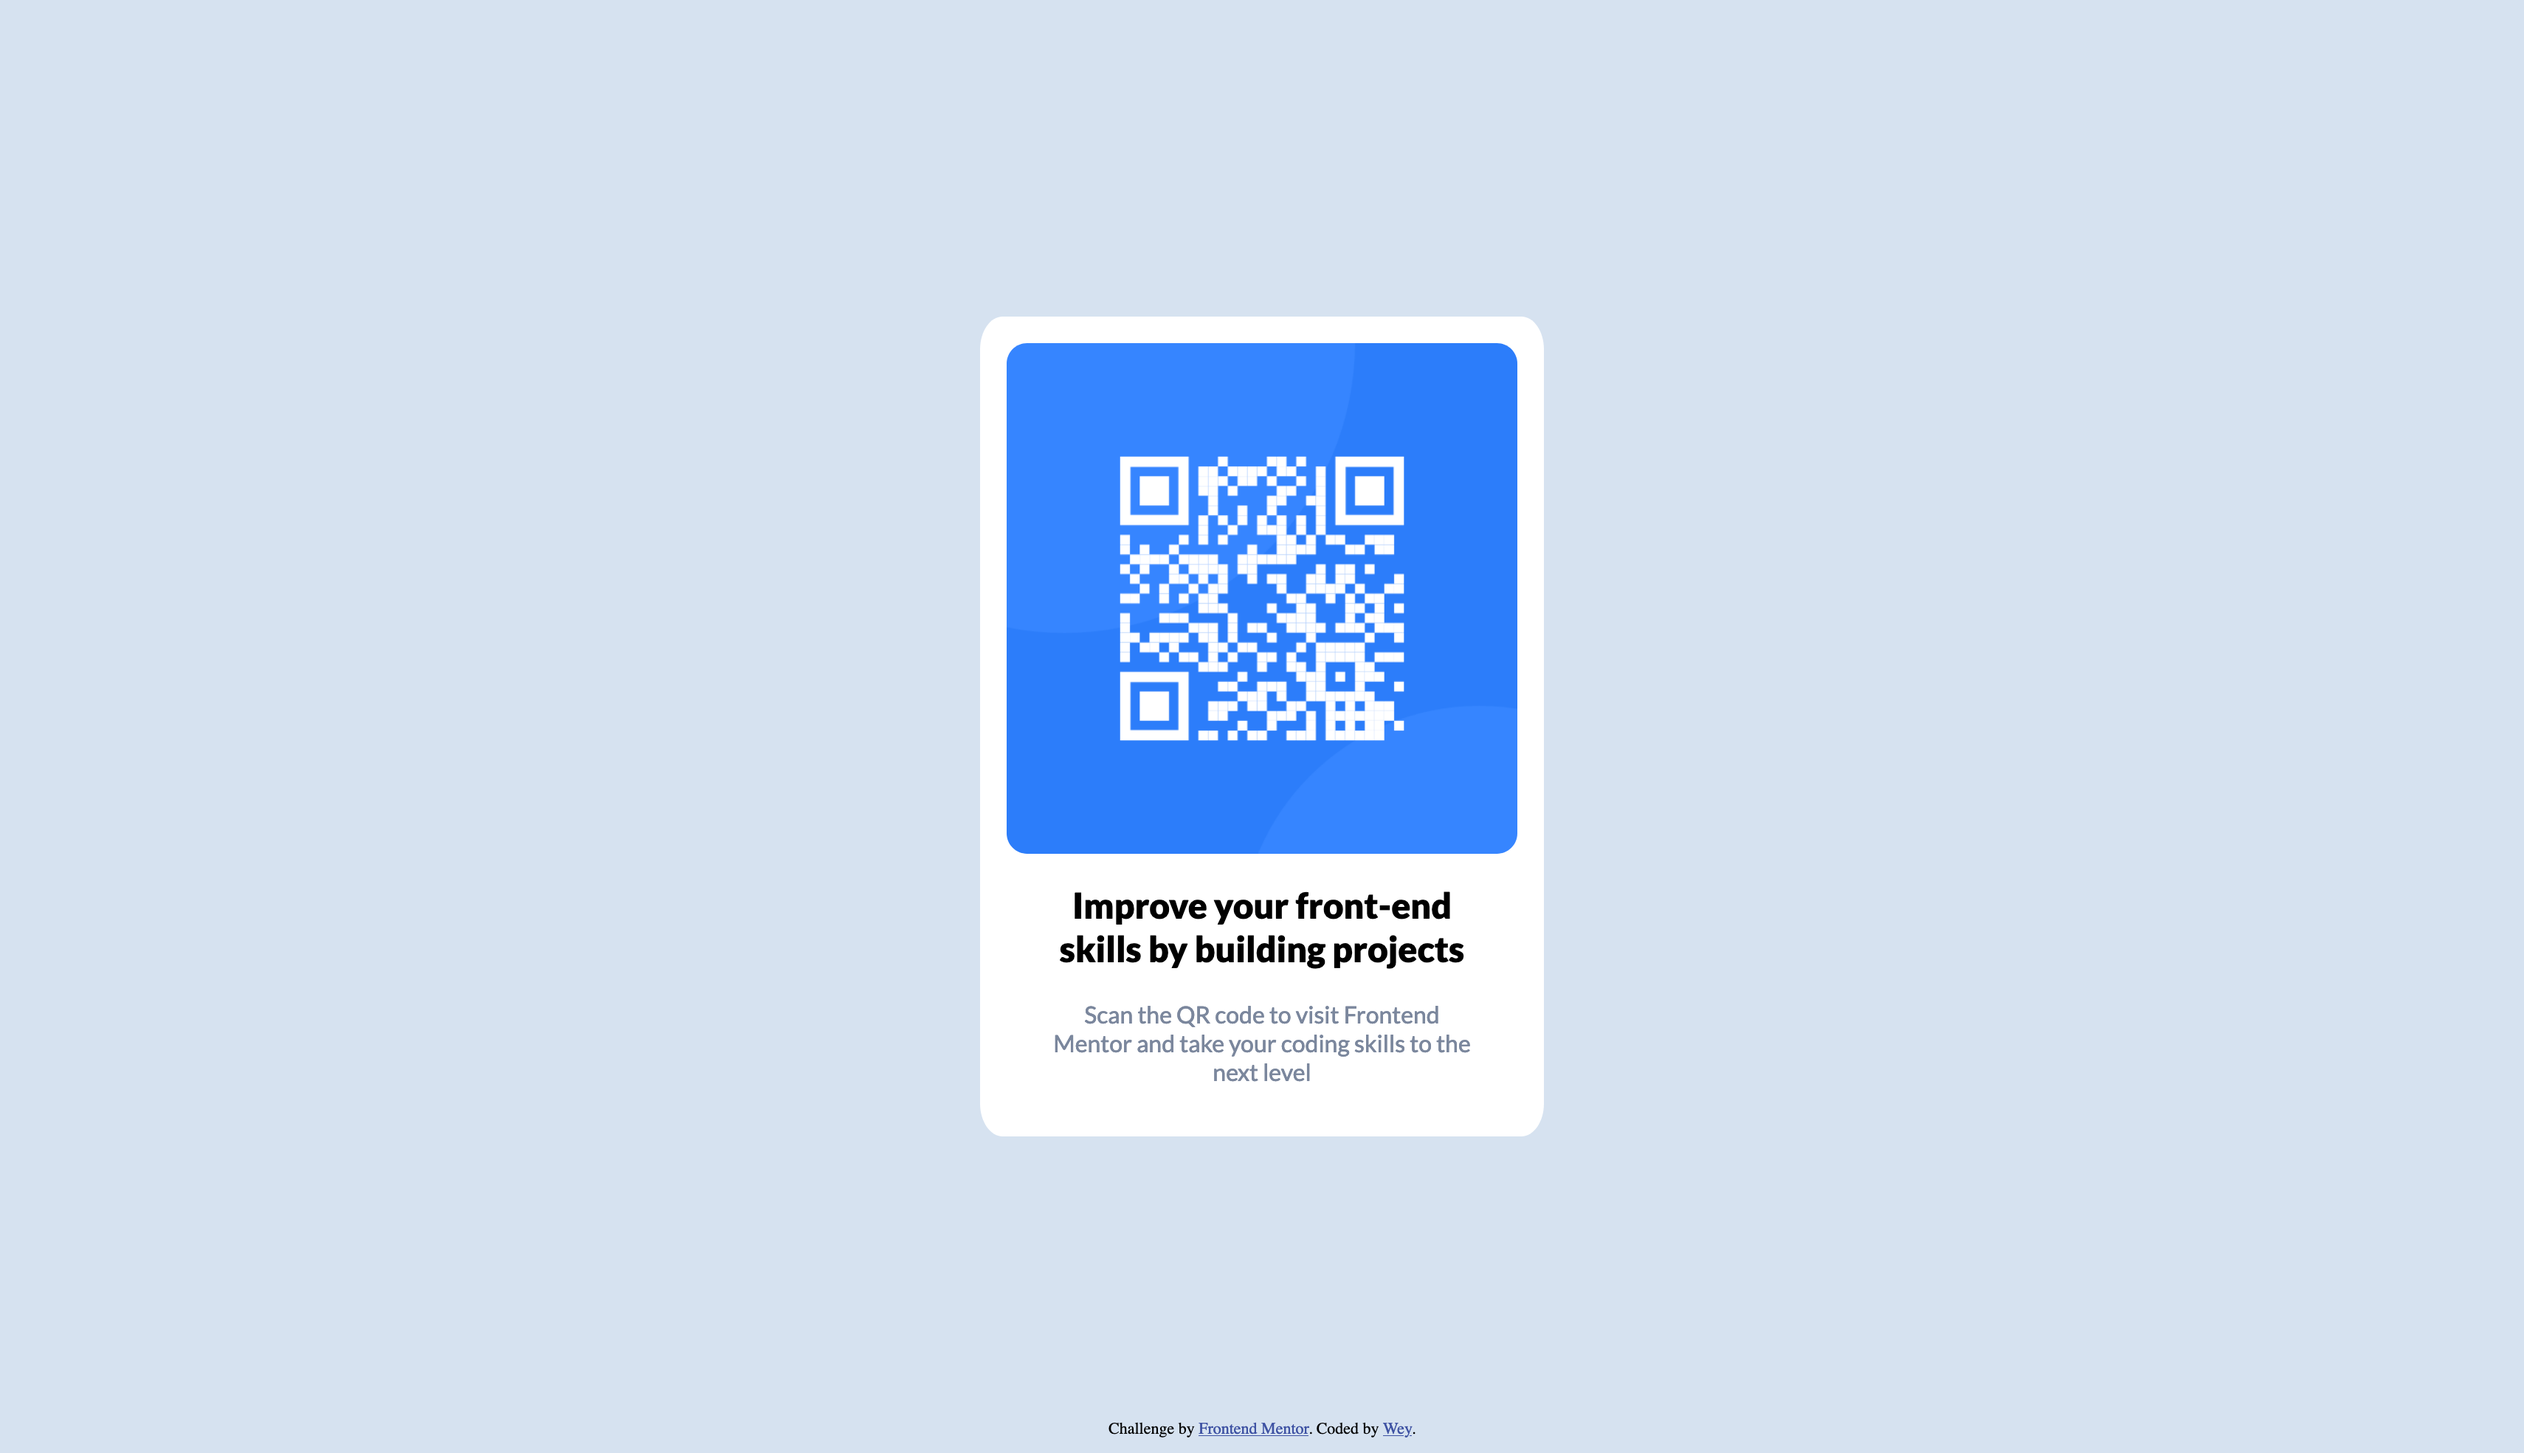
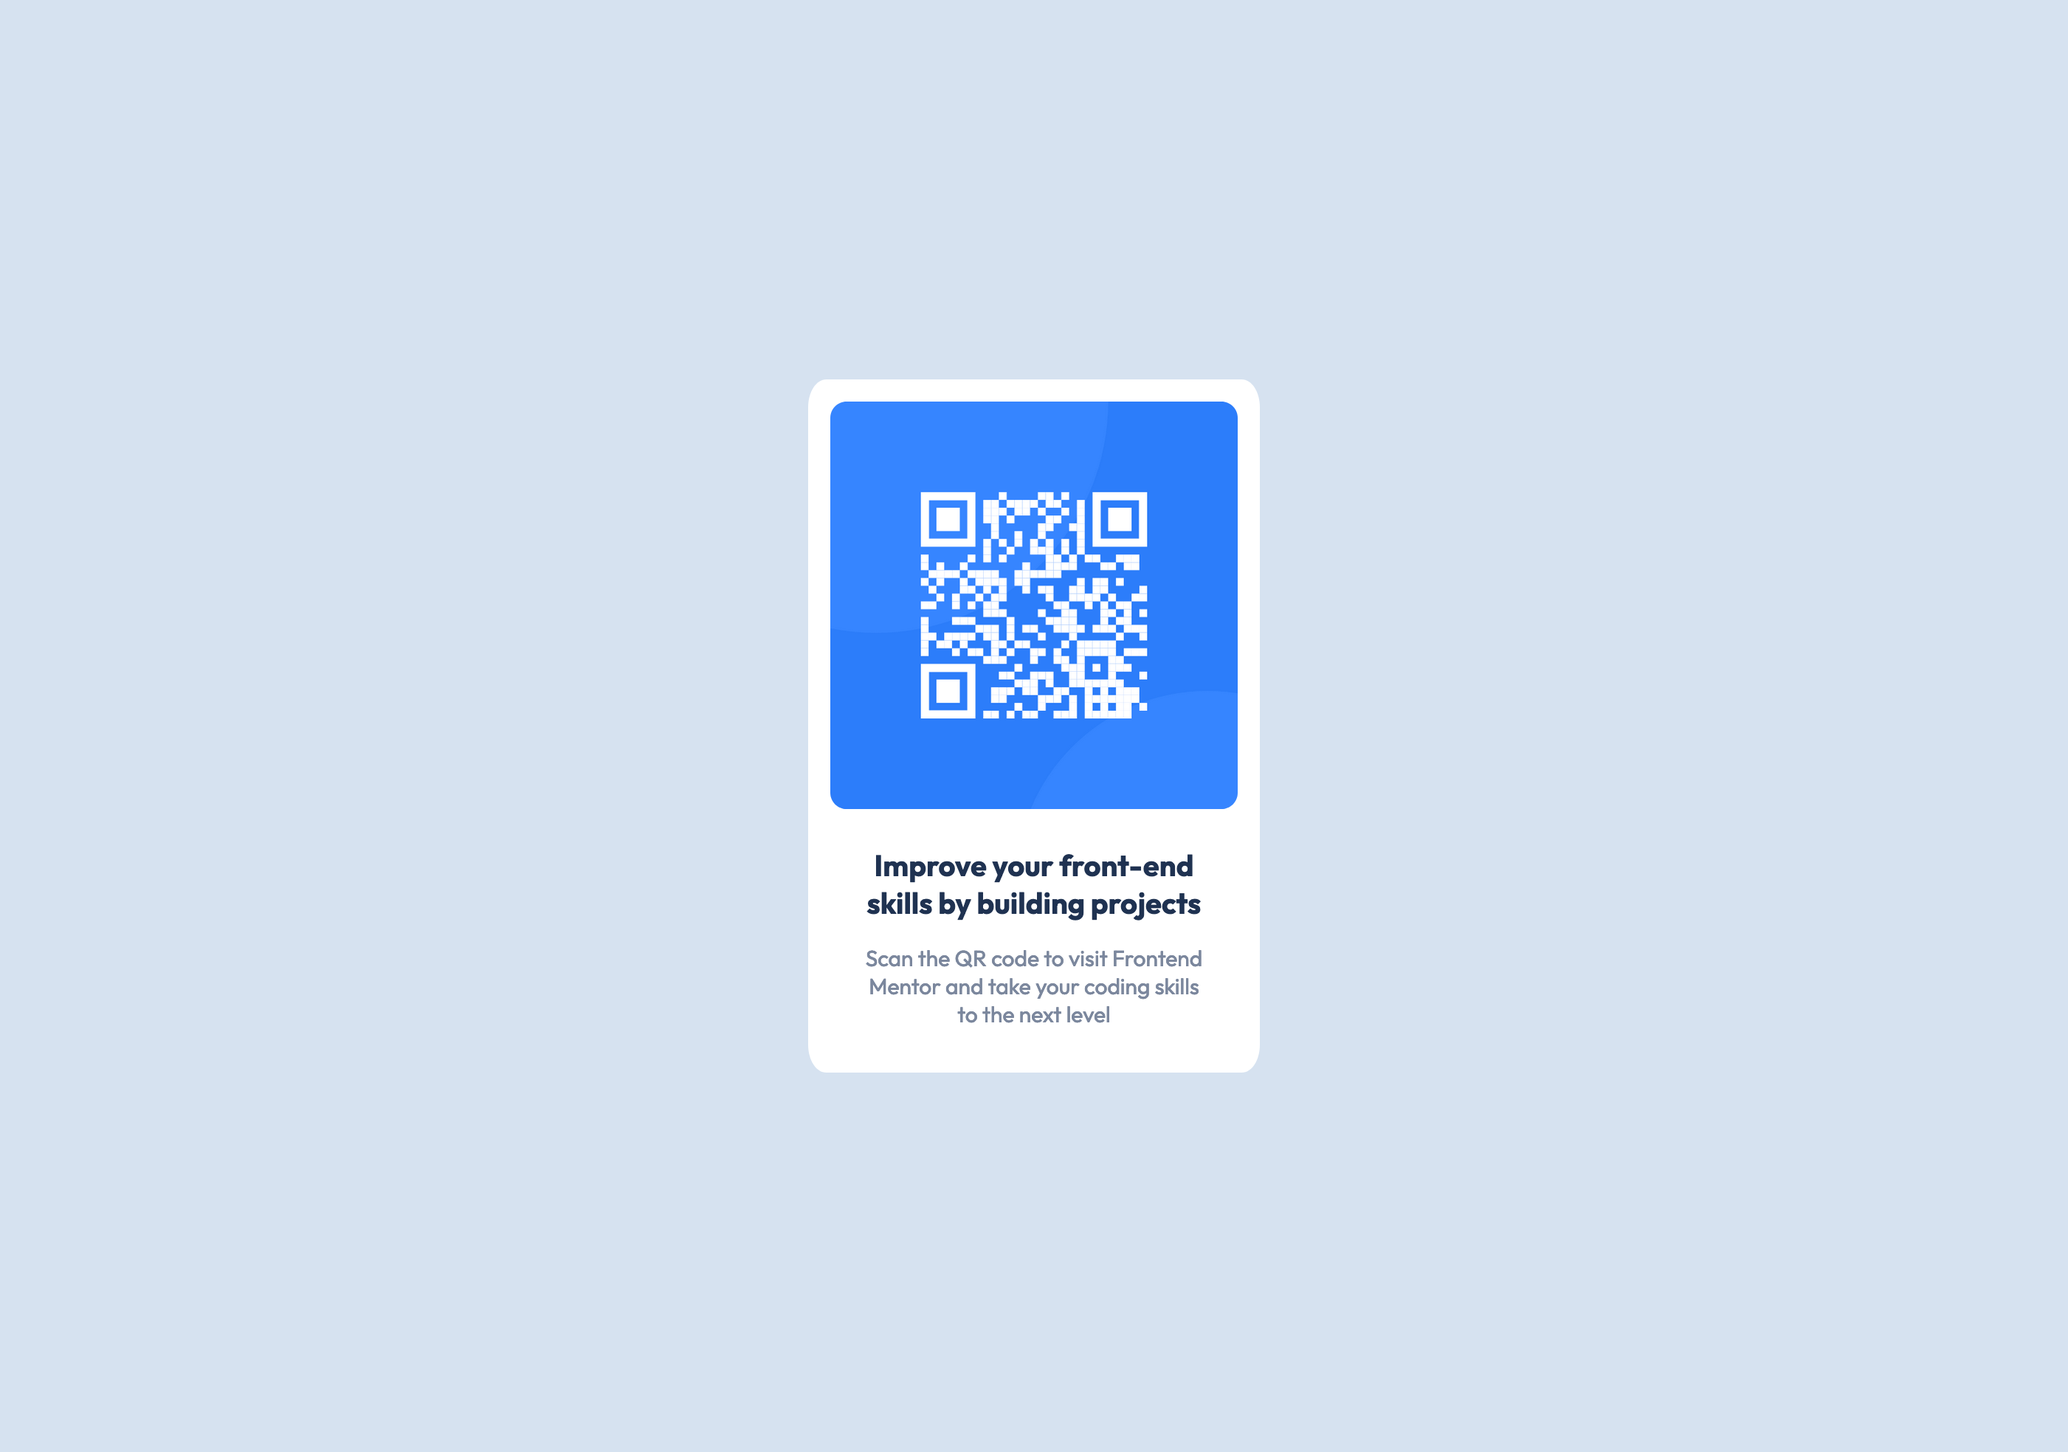
fixed to match style-guide better

Changed region(s): [[0.3726, 0.2171, 0.621, 0.8063], [0.4347, 0.3101, 0.5589, 0.5272], [0.4347, 0.9614, 0.5589, 0.9924]]

diff --git a/style.css b/style.css
@@ -16,6 +16,12 @@ img {
     border-radius: 4%;
     max-width: 100%;
     height: auto;
+    margin-bottom: 12px;
+}
+
+h1 {
+    font-size: 20px;
+    color:  hsl(218, 44%, 22%);
 }
 
 .container {
@@ -23,14 +29,14 @@ img {
     flex-direction: column;
     margin: auto;
     background-color: hsl(0, 0%, 100%);
-    padding: 18px;
-    width: 80%;
+    padding: 15px;
+    width: 77%;
     border-radius: 4%;
 }
 
 .qr-text {
-    margin-left: 30px;
-    margin-right: 30px;
+    padding-left: 10px;
+    padding-right: 10px;
     text-align: center;
 }
 
@@ -63,6 +69,15 @@ img {
   
   @media all and (min-width: 800px) {
     .container {
-        width: 50%;
+        width: 44%;
+    }
+
+    .qr-text {
+        padding-left: 18px;
+        padding-right: 18px;
+    }
+
+    h1 {
+        font-size: 20px;
     }
   }

diff --git a/index.html b/index.html
@@ -37,11 +37,11 @@
       </div>
     </main>
 
-    <div class="attribution">
+    <!-- <div class="attribution">
       Challenge by
       <a href="https://www.frontendmentor.io?ref=challenge" target="_blank"
         >Frontend Mentor</a
       >. Coded by <a href="#">Wey</a>.
-    </div>
+    </div> -->
   </body>
 </html>
